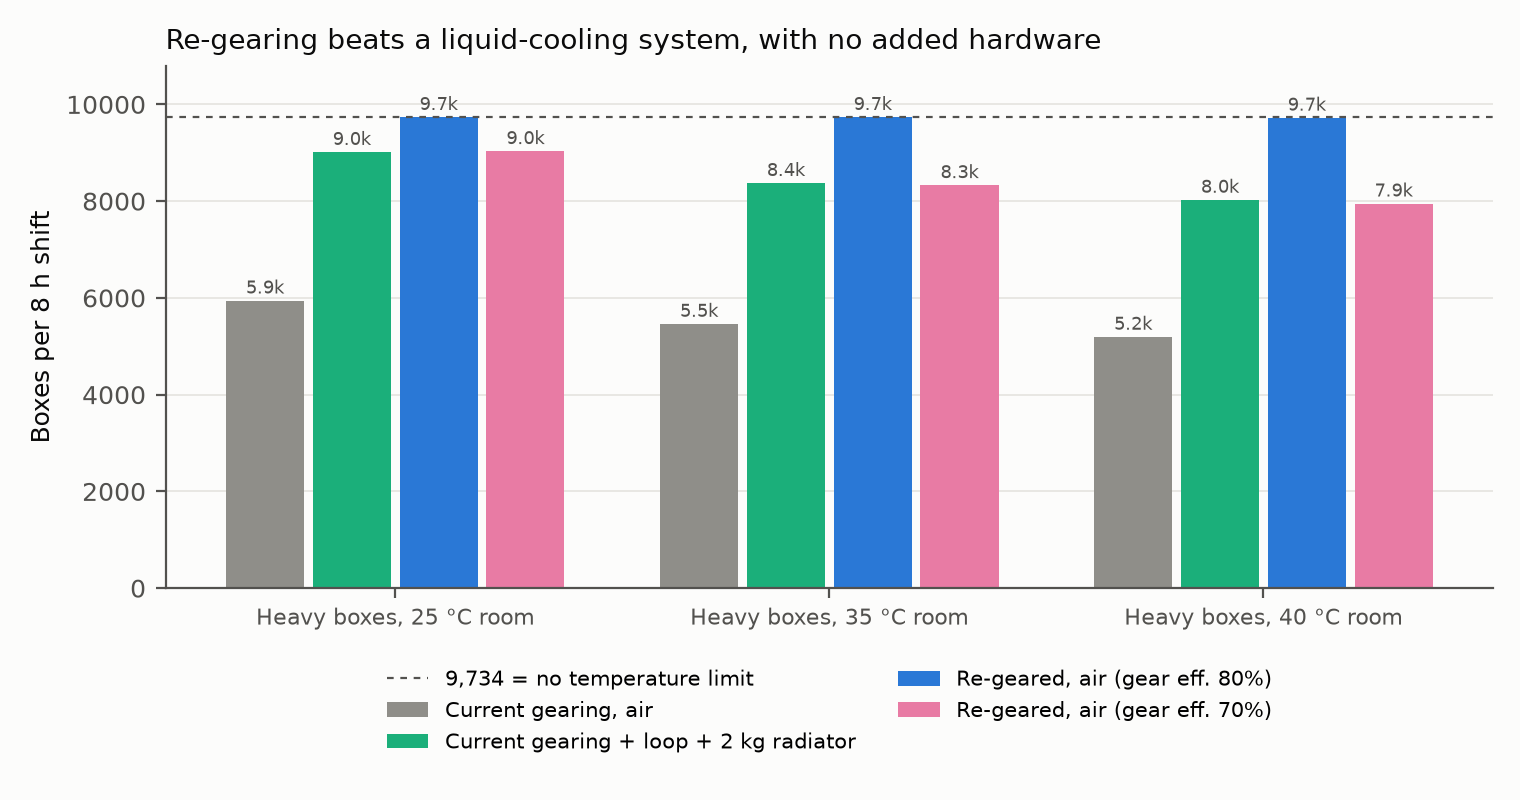
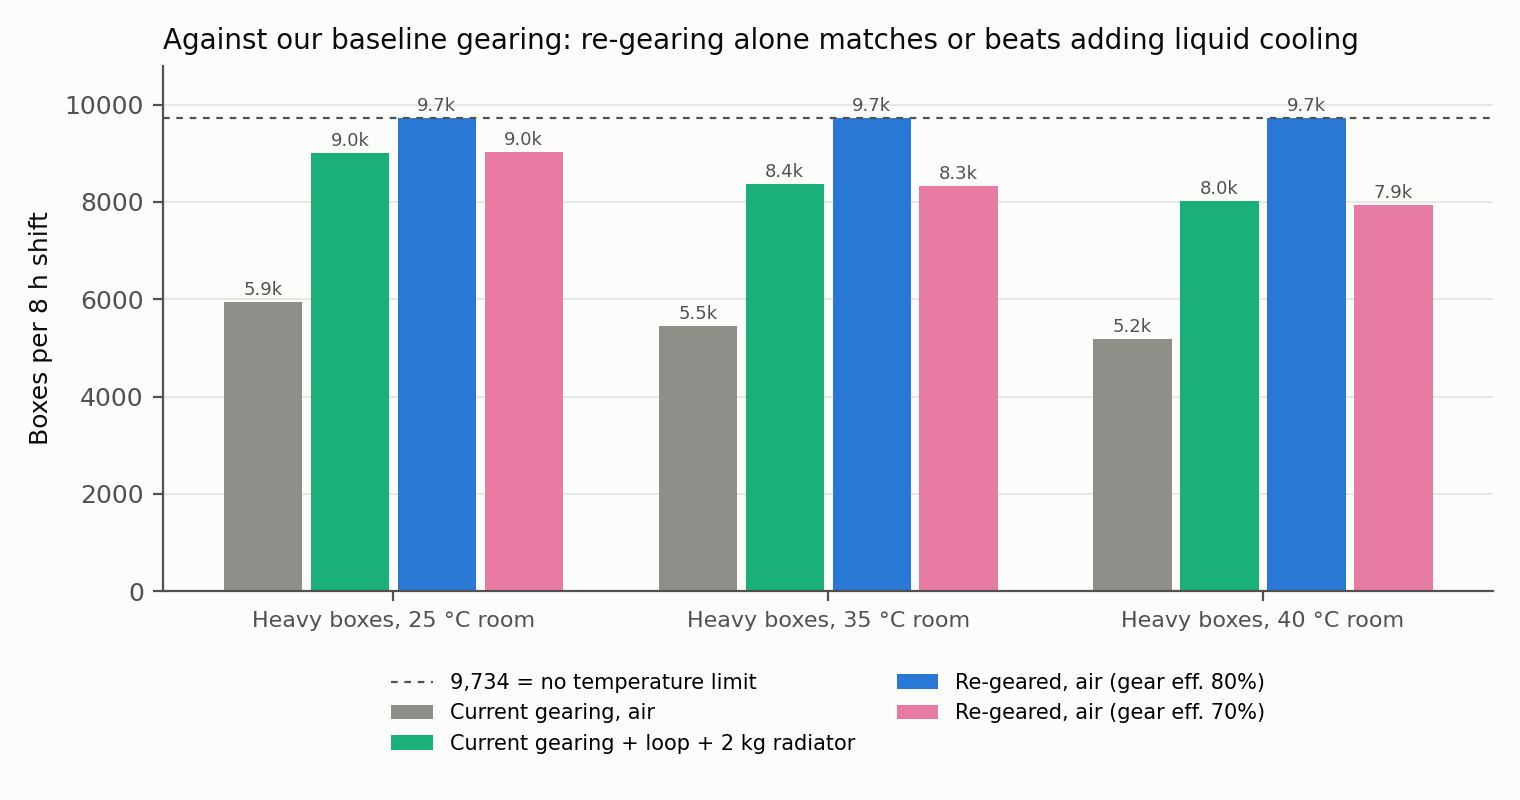
Gear-ratio results note; honest figure titles

diff --git a/experiments/make_figures_gearing.py b/experiments/make_figures_gearing.py
@@ -63,7 +63,7 @@ def fig_8h(rows, tables):
     ax.set_xticks(x, [f"Heavy boxes, {SCN[s]} room" for s in scns], fontsize=8)
     ax.set_ylabel("Boxes per 8 h shift")
     ax.set_ylim(0, 10800)
-    finish(ax, "Re-gearing beats a liquid-cooling system, with no added hardware")
+    finish(ax, "Against our baseline gearing: re-gearing alone matches or beats adding liquid cooling")
     ax.legend(fontsize=7.5, ncol=2, frameon=False, loc="upper center", bbox_to_anchor=(0.5, -0.12))
     fig.tight_layout()
     fig.savefig(FIG / "gear_fig1_8h.png", dpi=200)
@@ -120,7 +120,7 @@ def fig_ratio(rows, tables):
     ax.text(0.76, CEIL2 + 25, "no temperature limit", fontsize=7, color=MUTED, va="bottom")
     ax.set_xlabel("Gear ratio multiplier (each joint capped at its motor speed limit)")
     ax.set_ylabel("Boxes per 2 h shift")
-    finish(ax, "Throughput climbs steeply with gear ratio until the task ceiling")
+    finish(ax, "Throughput rises with gear ratio until joints hit their motor speed limits")
     ax.legend(fontsize=7.5, frameon=False, loc="lower right")
     fig.tight_layout()
     fig.savefig(FIG / "gear_fig3_ratio.png", dpi=200)

diff --git a/docs/gearing_results.md b/docs/gearing_results.md
@@ -1,0 +1,53 @@
+# Gear-ratio study: results (Oct 2026)
+
+**Question.** After the cartridge study showed the heat bottleneck is inside the actuator, how much
+does the actuator's own design (gear ratio, and two-speed shifting) matter compared with adding
+cooling hardware?
+
+**Read this first: what the baseline is.** "Current gearing" is our own design: Kollmorgen TBM(S)-6013-A
+motors with ratios chosen so peak motor torque matches Apollo's published joint limits. It is not
+Apollo's real actuator (not public), and not Optimus's or Figure's. Sizing ratio for heat versus
+speed is standard actuator practice, so every gain below is relative to a design that was never
+optimized for heat. This is a quantified design study, not a discovery.
+
+## Findings
+1. **Gear ratio is a larger lever than cooling hardware, relative to our baseline.** Raising each
+   arm joint's ratio up to 98% of its motor speed limit (capped at 2x), with air cooling only:
+   9,734 / 9,734 / 9,721 boxes per 8 h shift at 25 / 35 / 40 °C, versus 9,011 / 8,370 / 8,024 for
+   the baseline gearing with a coolant loop and 2 kg radiator. With the raised gears at a
+   pessimistic 70% efficiency, re-gearing only ties the loop and radiator (9,030 / 8,326 / 7,946).
+   Fig. `figures/gear_fig1_8h.png`, Table 1 in `results/gearing/tables.md`.
+2. **Throughput rises steeply with ratio until joints hit their speed limits.** 0.75x: 993 boxes,
+   1x: 1,639, 1.25x: 2,295, 1.5x: 2,668 (task ceiling) per 2 h shift at 25 °C, 80% efficiency.
+   Above 1.5x the curve is flat because most joints are already capped by motor speed.
+   Fig. `gear_fig3_ratio.png`, Table 3.
+3. **Two-speed shifting has a narrow edge.** It only helps joints whose speed limit caps the fixed
+   ratio (here the elbow, 1.16x headroom). At 70% gear efficiency, an ideal two-speed joint with a
+   2x high gear reaches the 2,668-box ceiling and peaks at 84–97 °C; the best fixed ratio reaches
+   2,281–2,470 and peaks at 131 °C. At 80% efficiency both reach the ceiling. A 3x high gear is
+   worse than 2x, because reflected rotor inertia grows with ratio squared and adds its own heat.
+   Fig. `gear_fig2_twospeed.png`, Table 2. Two-speed robot actuators already exist
+   (Girard & Asada, arXiv:2405.16652); their thermal benefit had been argued from I²R, not simulated.
+4. **The cost: reflected inertia.** At the speed-limited ratio, shoulder flexion's joint-side rotor
+   inertia is 0.32 kg·m², 2.8x Apollo's modeled armature (0.11); a 2x high gear makes it 0.56 (5x).
+   This hurts collision safety, impact tolerance and back-drivability, none of which is modeled.
+   Table 4.
+
+## Limitations
+- Baseline ratios are ours; real humanoid actuators may already sit near the thermally better end.
+- Arms only, fixed base, one slow repetitive task (peak joint speeds 2–4 rad/s); faster tasks shrink
+  the speed headroom that re-gearing uses.
+- Gear efficiency held constant per gear (80% or 70%); real strain-wave efficiency varies with ratio,
+  load and temperature. Shifting is ideal (no time, mass or loss): an upper bound.
+- Motor speed limit taken as the datasheet's rated-power speed (4,000 rpm at 48 V); voltage-limited
+  torque near that speed is not modeled.
+- All thermal results inherit the provisional 35/65 winding/housing resistance split, which the
+  potting bench test (`docs/bench_potting_plan.md`) measures on a real motor.
+
+## Reproduce
+```bash
+python experiments/run_gearing.py shift2h    # 90 runs
+python experiments/run_gearing.py shift8h    # 54 runs
+python experiments/run_gearing.py ratio      # 120 runs + results/gearing/ratios.csv
+python experiments/make_figures_gearing.py
+```
